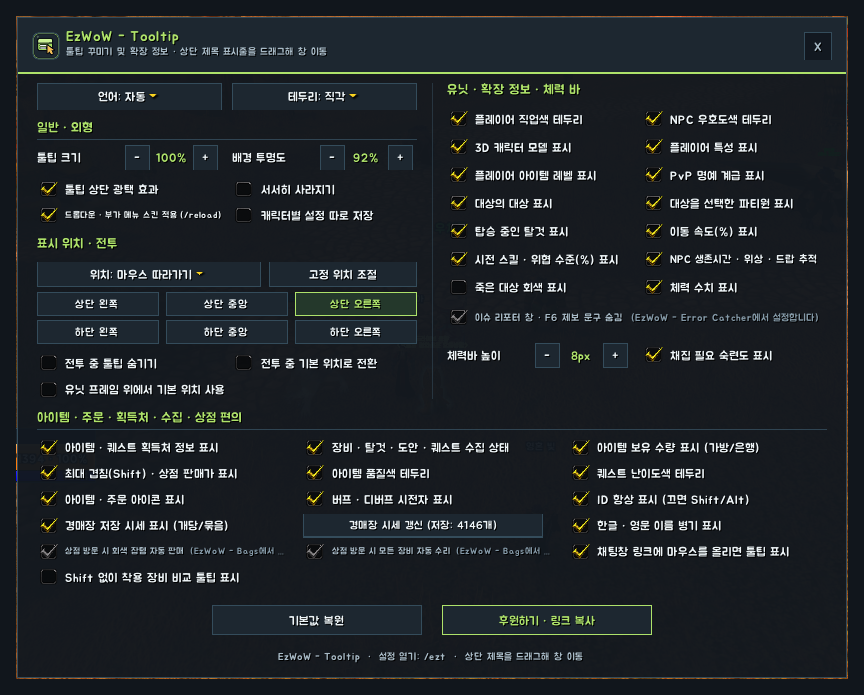
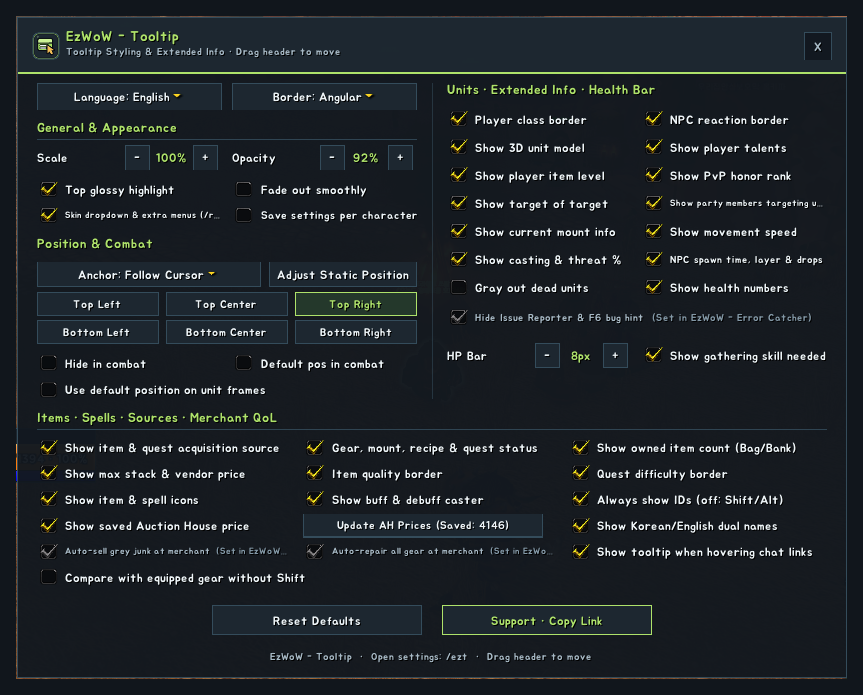
영어 설명용 게임 화면 추가

diff --git a/docs/curseforge_description.md b/docs/curseforge_description.md
@@ -12,7 +12,7 @@ Clean dark card tooltips for WoW Forever, with extra information on players, NPC
 
 ![Settings window](https://raw.githubusercontent.com/qqhrqqhr2/EzWoW-Tooltip/master/docs/images/settings_en.png)
 
-*In-game screenshots (WoW Forever, Korean client). Character and player names and chat text are blurred.*
+*In-game screenshots with the addon set to English. The game client is Korean, so game text such as zone, item and spell names stays Korean. Character and player names and chat text are blurred.*
 
 ## Features
 

diff --git a/README.md b/README.md
@@ -135,7 +135,7 @@ EzWoW - Tooltip turns game tooltips into **clean dark cards** and adds useful in
 
 ![Settings window](docs/images/settings_en.png)
 
-> In-game screenshots (WoW Forever, Korean client). Character and player names and chat text are blurred.
+> In-game screenshots with the addon set to English. The game client is Korean, so game text such as zone, item and spell names stays Korean. Character and player names and chat text are blurred.
 
 ### Installation
 
